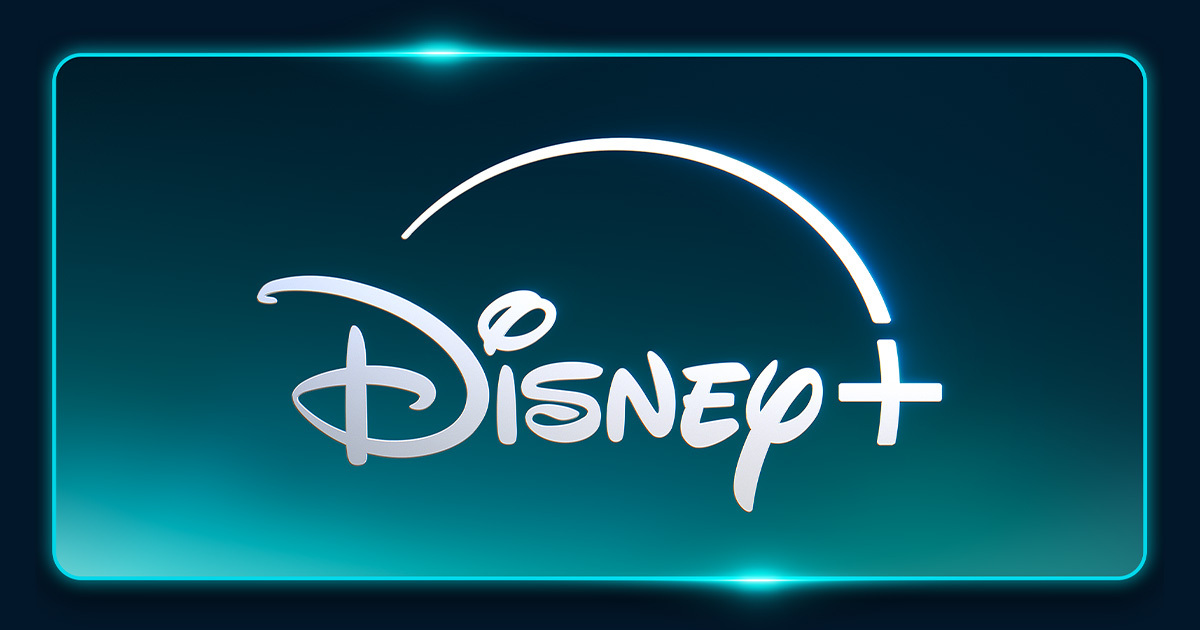
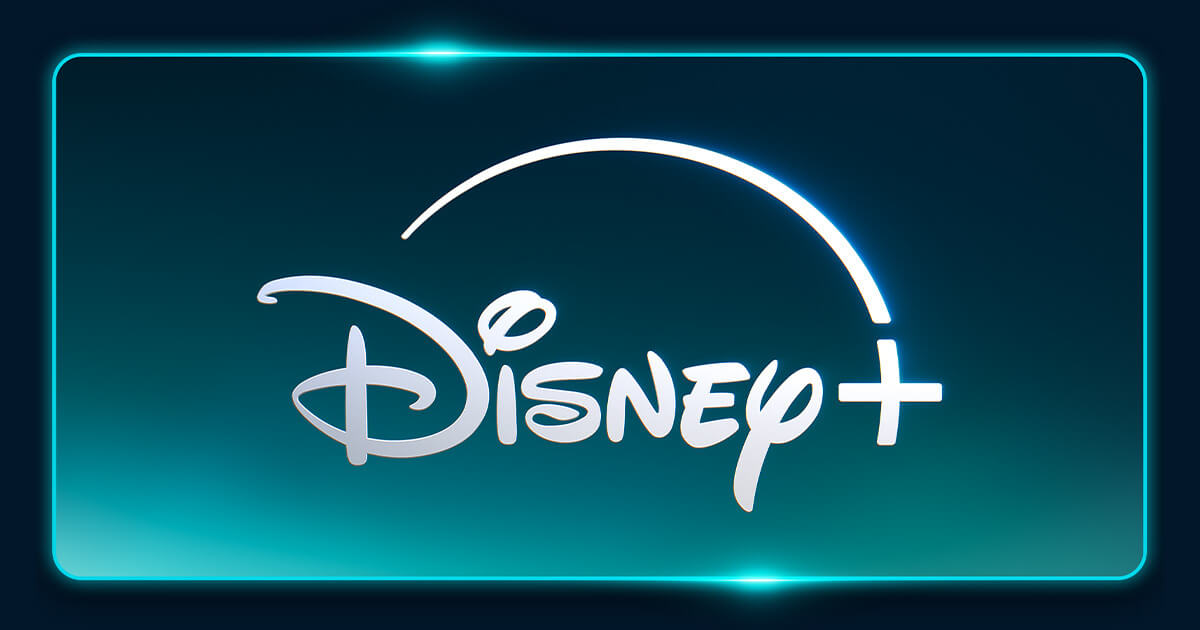
optimized images

diff --git a/index.html b/index.html
@@ -546,7 +546,7 @@
         </div>
         <div class="workWrapper">
             <div class="imageWorkWrapper">
-                <img class="imageWork" src="style/images/projects/project_wireshark.png">
+                <img class="imageWork" src="style/images/projects/project_wireshark.webp">
             </div>
             <div class="infoWrapper">
                 <div class="titleWork">
@@ -569,7 +569,7 @@
         </div>
         <div class="workWrapper">
             <div class="imageWorkWrapper">
-                <img class="imageWork" src="style/images/projects/project_java.png">
+                <img class="imageWork" src="style/images/projects/project_java.webp">
             </div>
             <div class="infoWrapper">
                 <div class="titleWork">
@@ -635,7 +635,7 @@
         </div>
         <div class="workWrapper">
             <div class="imageWorkWrapper">
-                <img class="imageWork" src="style/images/projects/project_java_bands.png">
+                <img class="imageWork" src="style/images/projects/project_java_bands.webp">
             </div>
             <div class="infoWrapper">
                 <div class="titleWork">
@@ -665,7 +665,7 @@
         </div>
         <div class="workWrapper">
             <div class="imageWorkWrapper">
-                <img class="imageWork" src="style/images/projects/project_git.png">
+                <img class="imageWork" src="style/images/projects/project_git.webp">
             </div>
             <div class="infoWrapper">
                 <div class="titleWork">
